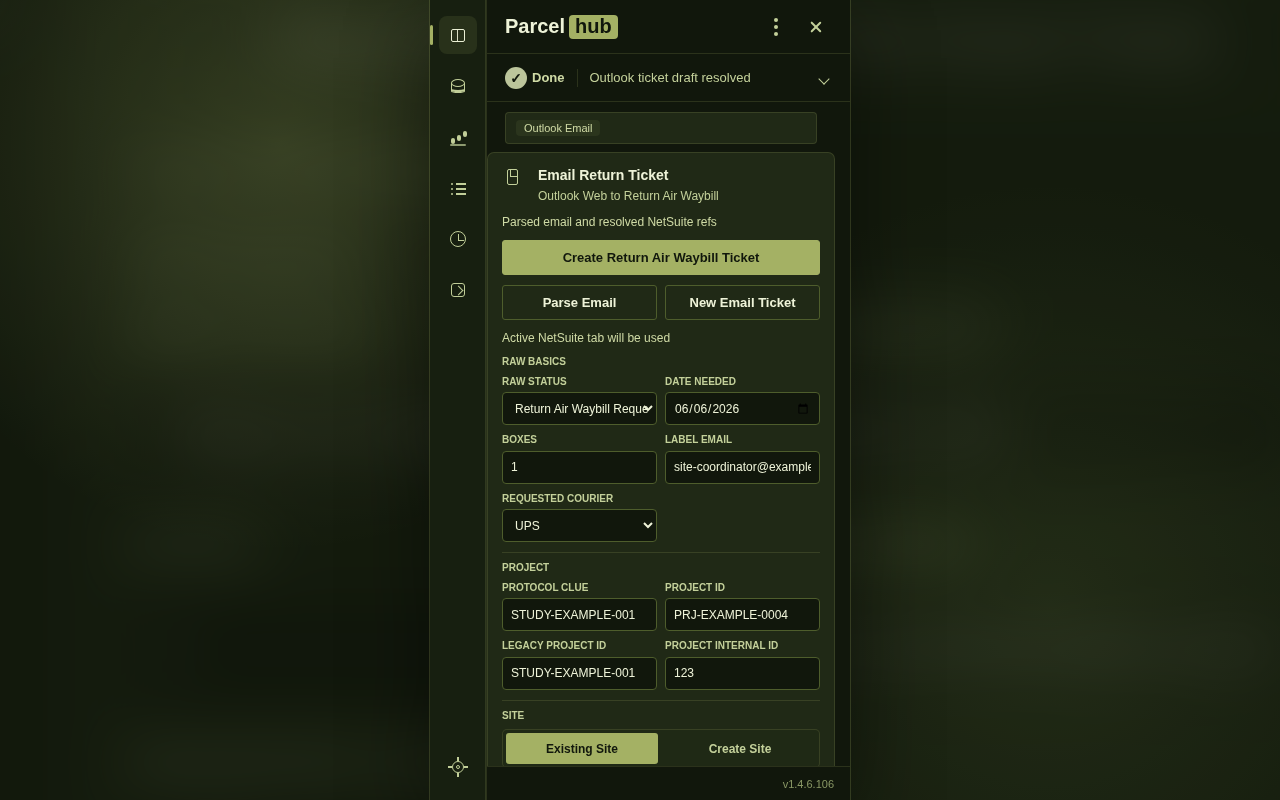
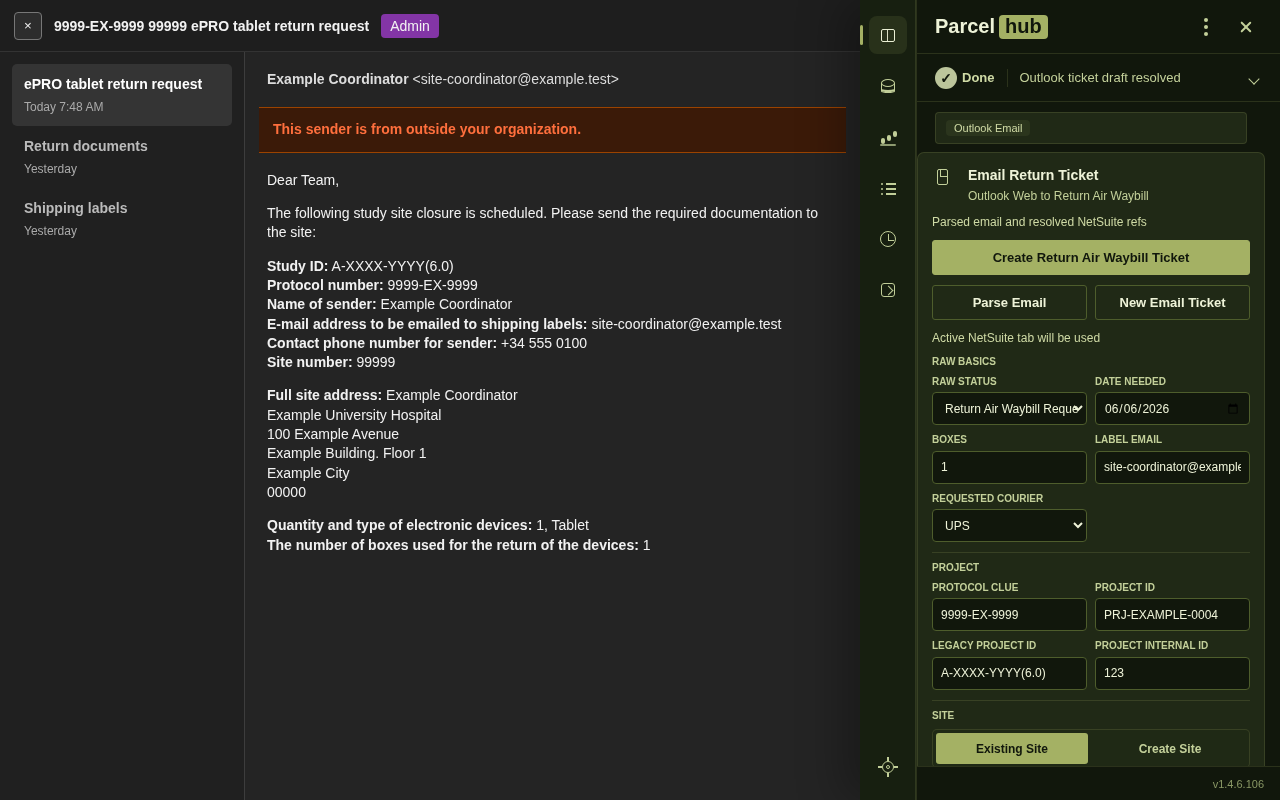
Refresh Parcel Hub listing screenshots

diff --git a/index.html b/index.html
@@ -52,7 +52,7 @@
 
     <section class="showcase" aria-label="Parcel Hub screenshots">
       <img src="./assets/listing-screenshot-2.png" alt="Parcel Hub parsing a shipping request email into structured shipment data.">
-      <img src="./assets/listing-screenshot-3.png" alt="Parcel Hub return worklist showing carrier routing and writeback state.">
+      <img src="./assets/listing-screenshot-3.png" alt="Parcel Hub guiding a return shipment through a courier page.">
     </section>
 
     <section class="section compact">
